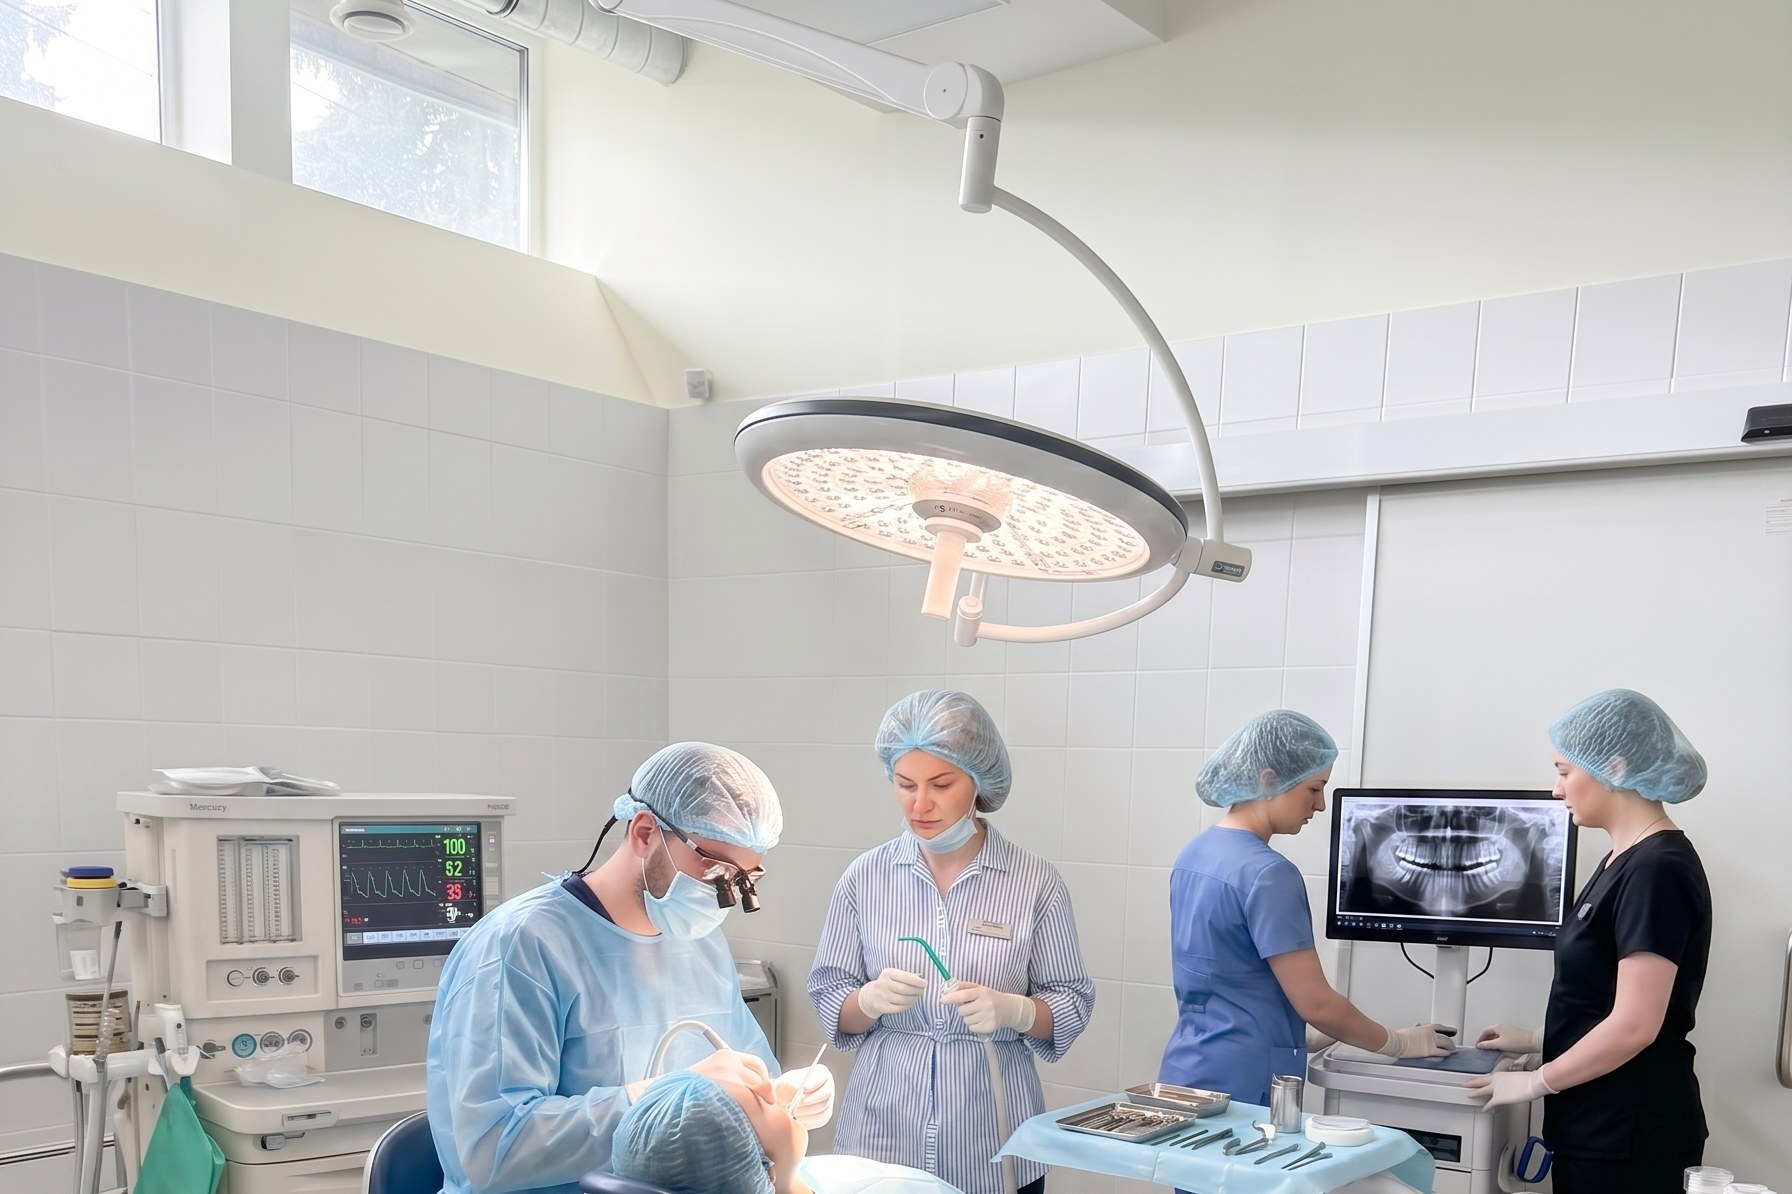
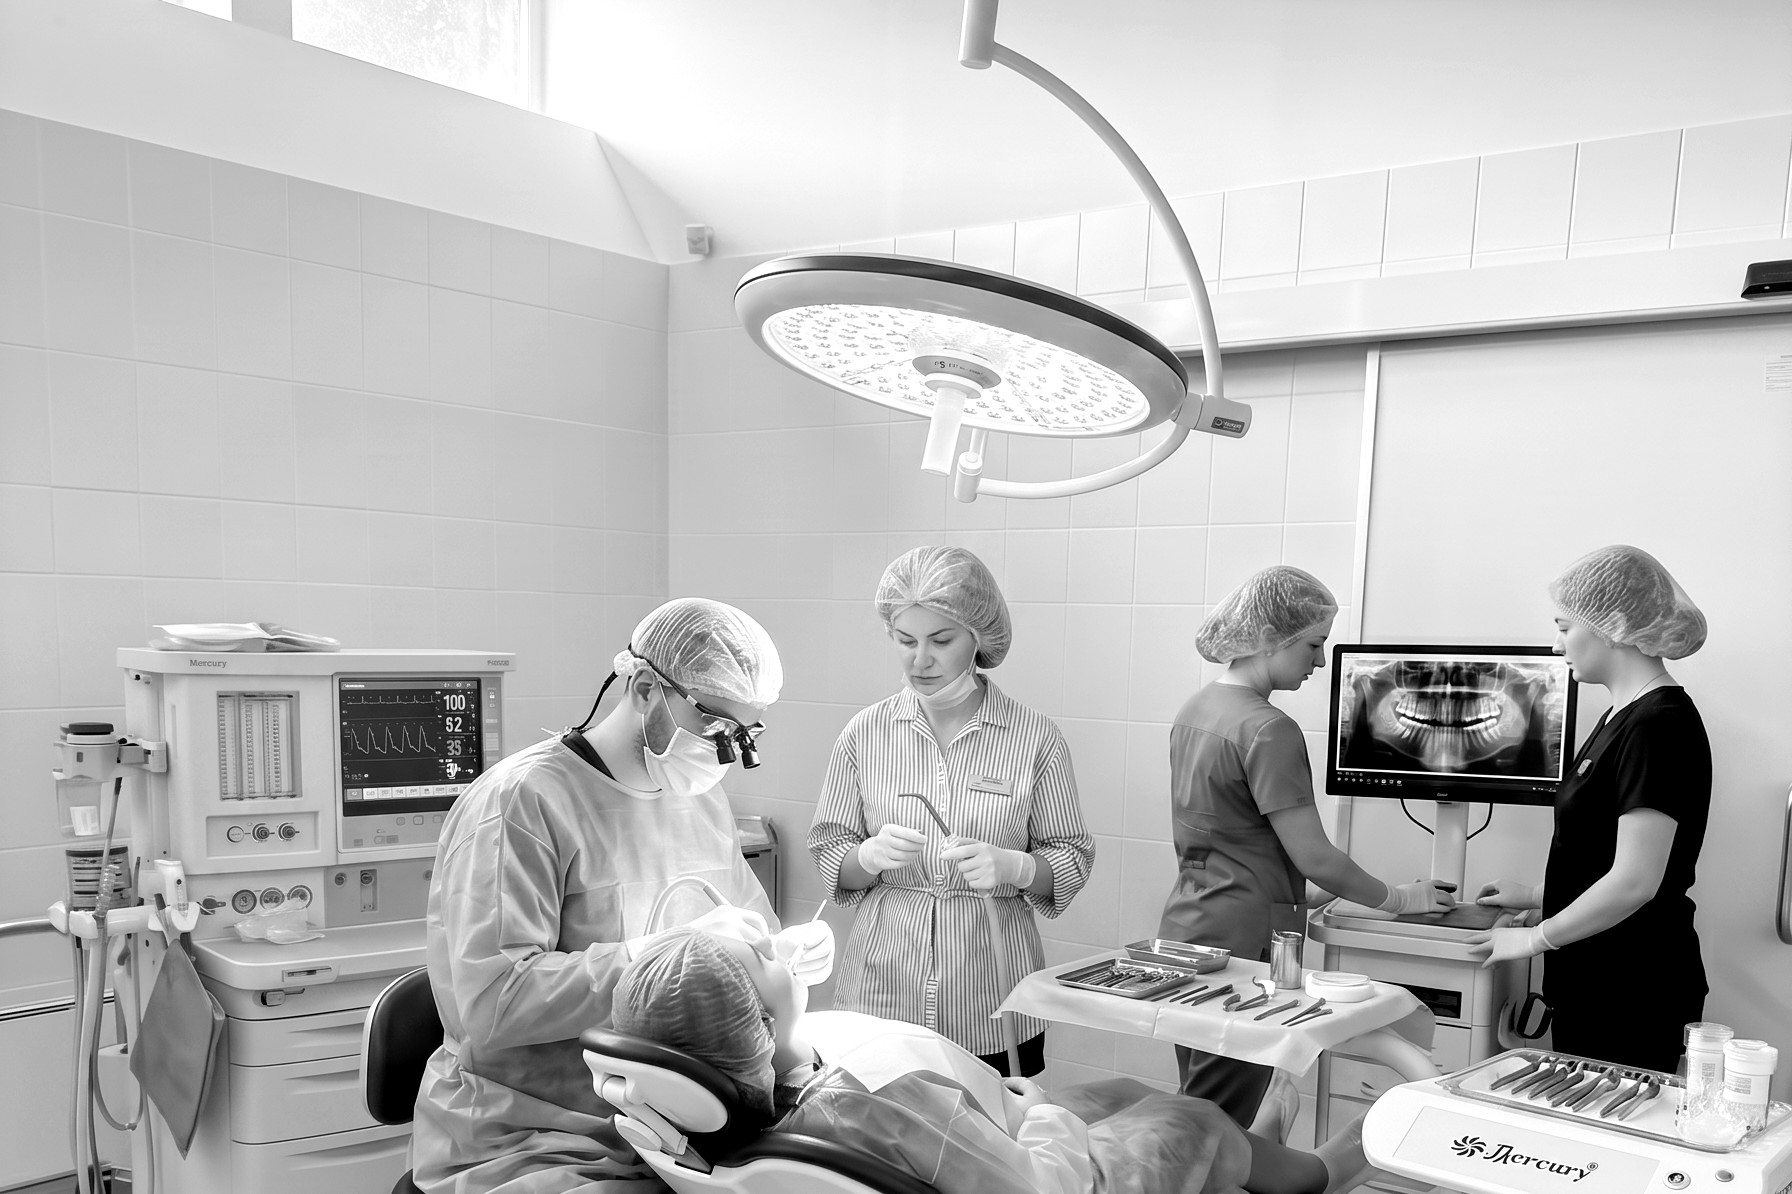
Услуги: фото операционной, выравнивание текста, объединение имплантация+протезирование

diff --git a/index.html b/index.html
@@ -361,13 +361,15 @@
 
   /* группы услуг (операционная / каждому) */
   .svc-group{margin-bottom:clamp(44px,6vw,88px)}
+  .svc-group .shead{align-items:flex-end}
+  .svc-group .shead .side{font-size:clamp(15.5px,1.5vw,18px);max-width:380px;line-height:1.55}
   .svc-group:last-of-type{margin-bottom:0}
-  .op-banner{position:relative;margin:0 0 clamp(6px,1vw,12px);border:1px solid var(--hairline-strong);overflow:hidden;background:var(--paper-2)}
-  .op-banner img{width:100%;display:block;aspect-ratio:16/7;object-fit:cover}
-  .op-banner figcaption{position:absolute;left:0;bottom:0;right:0;display:flex;justify-content:space-between;gap:14px;flex-wrap:wrap;
-    padding:clamp(14px,2vw,22px) clamp(16px,2vw,26px);font-family:var(--mono);font-size:11px;letter-spacing:.08em;text-transform:uppercase;
-    color:var(--paper);background:linear-gradient(to top,rgba(17,17,16,.82),rgba(17,17,16,0))}
-  .op-banner figcaption b{color:#D9A7AF;font-weight:500}
+  .op-banner{margin:0 0 clamp(8px,1.2vw,16px);border:1px solid var(--hairline-strong);background:var(--paper-2)}
+  .op-banner img{width:100%;display:block;aspect-ratio:3/2;object-fit:cover}
+  .op-banner figcaption{display:flex;justify-content:space-between;gap:14px;flex-wrap:wrap;
+    padding:13px clamp(16px,2vw,22px);border-top:1px solid var(--hairline);
+    font-family:var(--mono);font-size:11px;letter-spacing:.08em;text-transform:uppercase;color:var(--ink-50)}
+  .op-banner figcaption b{color:var(--accent);font-weight:500}
 
   /* directions (расширенные услуги) */
   .dirs{border-top:1px solid var(--hairline-strong)}
@@ -706,7 +708,7 @@
     /* группы услуг + баннер операционной на мобиле */
     .svc-group{margin-bottom:clamp(34px,9vw,52px)}
     .op-banner img{aspect-ratio:4/3}
-    .op-banner figcaption{flex-direction:column;gap:5px;font-size:10px;padding:14px 16px}
+    .op-banner figcaption{flex-direction:column;gap:4px;font-size:10px;padding:12px 16px}
   }
 </style>
 </head>
@@ -836,29 +838,29 @@
       <div class="dir-item rv">
         <button class="dir-head" type="button" aria-expanded="false" data-dir>
           <span class="dn">01</span>
-          <span class="dwrap"><span class="dt">Имплантация</span><span class="dh">Нет одного зуба или почти всех — вернём улыбку, на которую можно опереться</span></span>
+          <span class="dwrap"><span class="dt">Имплантация и протезирование</span><span class="dh">От одного импланта до полного восстановления — с коронкой или протезом под ключ</span></span>
           <span class="dp">от 45 000 ₽ за имплант</span>
           <span class="dpl"><svg viewBox="0 0 24 24" fill="none" stroke="currentColor" stroke-width="1.5"><path d="M12 5v14M5 12h14"/></svg></span>
         </button>
         <div class="dir-panel"><div><div class="dir-body">
           <div>
-            <p class="lede">Имплант заменяет утраченный корень и держит нагрузку как родной зуб: соседние зубы остаются нетронутыми, а кость не убывает. Подберём решение под вашу ситуацию — от одного импланта до полного восстановления челюсти, спокойно и без давления.</p>
+            <p class="lede">Имплант заменяет утраченный корень, а коронка или протез возвращают видимую часть зуба — так восстанавливаем и один зуб, и всю челюсть. Импланты Osstem и Neodent, коронки и виниры из циркония и керамики, мостовидные и съёмные протезы. Подберём решение под вашу ситуацию, спокойно и без давления.</p>
             <div class="dir-bens">
-            <div class="dir-ben"><span class="bm"></span><div><b>Сохраняем то, что можно сохранить</b><span>Сначала смотрим, какие зубы ещё спасти, и только потом планируем импланты. Не удаляем лишнего.</span></div></div>
-            <div class="dir-ben"><span class="bm"></span><div><b>Импланты с проверенной репутацией</b><span>Osstem и Neodent — системы с многолетней практикой и понятной гарантией. Для полного восстановления — All-on-4 и All-on-6.</span></div></div>
-            <div class="dir-ben"><span class="bm"></span><div><b>Цена зафиксирована в договоре</b><span>Сумма, озвученная после осмотра и КТ, не вырастет в процессе. Доступна рассрочка 0% и налоговый вычет 13%.</span></div></div>
+            <div class="dir-ben"><span class="bm"></span><div><b>Сохраняем то, что можно сохранить</b><span>Сначала смотрим, какие зубы ещё спасти, и только потом планируем импланты и протезы. Не удаляем лишнего.</span></div></div>
+            <div class="dir-ben"><span class="bm"></span><div><b>Имплант и коронка — под ключ</b><span>Osstem и Neodent с понятной гарантией, цирконий и керамика сверху. Для полного восстановления — All-on-4 и All-on-6.</span></div></div>
+            <div class="dir-ben"><span class="bm"></span><div><b>Цена зафиксирована в договоре</b><span>Сумма, озвученная после осмотра и КТ, не вырастет в процессе. Рассрочка 0% и налоговый вычет 13%.</span></div></div>
             </div>
           </div>
           <div class="dir-side">
-            <div class="pmeta">Имплант от 45 000 ₽, полное восстановление челюсти All-on-4 — от 170 000 ₽. Итоговая сумма зависит от объёма и становится известна после КТ; зафиксируем её в договоре. Рассрочка 0% и налоговый вычет 13%.</div>
+            <div class="pmeta">Имплант — от 45 000 ₽, коронка — от 35 500 ₽, полное восстановление челюсти All-on-4 — от 170 000 ₽. Итог зависит от объёма и фиксируется в договоре после КТ. Рассрочка 0%, вычет 13%.</div>
             <ol class="steps">
               <li>Консультация и 3D-снимок (КТ): оцениваем кость, составляем честный план и точную стоимость</li>
-              <li>При нехватке объёма кости — костная пластика, чтобы имплант встал надёжно</li>
-              <li>Установка имплантов — аккуратно, под надёжной анестезией, без боли</li>
-              <li>Установка постоянной коронки или протеза на импланты — выходите с готовой улыбкой</li>
+              <li>Установка имплантов под надёжной анестезией; при нехватке кости — костная пластика</li>
+              <li>Изготовление коронки или протеза по цифровым слепкам</li>
+              <li>Фиксация постоянной конструкции — выходите с готовой улыбкой</li>
             </ol>
             <div class="dir-cta">
-              <a class="btn btn-ink" href="#calc" data-service="Имплантация">Рассчитать стоимость</a>
+              <a class="btn btn-ink" href="#calc" data-service="Имплантация и протезирование">Рассчитать стоимость</a>
               <a class="btn btn-line" href="#contact">Записаться</a>
             </div>
           </div>
@@ -1065,37 +1067,6 @@
       <div class="dir-item rv">
         <button class="dir-head" type="button" aria-expanded="false" data-dir>
           <span class="dn">04</span>
-          <span class="dwrap"><span class="dt">Протезирование</span><span class="dh">Вернём крепкие зубы и красивую улыбку — спокойно, без боли и сюрпризов в цене</span></span>
-          <span class="dp">от 35 500 ₽</span>
-          <span class="dpl"><svg viewBox="0 0 24 24" fill="none" stroke="currentColor" stroke-width="1.5"><path d="M12 5v14M5 12h14"/></svg></span>
-        </button>
-        <div class="dir-panel"><div><div class="dir-body">
-          <div>
-            <p class="lede">Разрушенный или потерянный зуб не восстановится сам, но это решаемо. Наши ортопеды подбирают коронку или протез под вашу ситуацию, эстетику и бюджет — и сначала всё спокойно объясняют, а уже потом лечат.</p>
-            <div class="dir-bens">
-            <div class="dir-ben"><span class="bm"></span><div><b>Цена в договоре не меняется</b><span>Итоговую стоимость озвучиваем после осмотра и снимка — до начала работ. То, что зафиксировано в договоре, останется неизменным.</span></div></div>
-            <div class="dir-ben"><span class="bm"></span><div><b>Своя зуботехническая лаборатория</b><span>Коронки и протезы изготавливают точно по вам, с цифровым моделированием улыбки. Естественный вид и аккуратная посадка — как свои зубы.</span></div></div>
-            <div class="dir-ben"><span class="bm"></span><div><b>Гарантия и рассрочка 0%</b><span>На ортопедические конструкции даём гарантию по договору. Большой план можно разбить на комфортные платежи без переплат, доступен налоговый вычет 13%.</span></div></div>
-            </div>
-          </div>
-          <div class="dir-side">
-            <div class="pmeta">Цена за коронку из металлокерамики «Стандарт». Цирконий, цельная керамика, мостовидные, съёмные и бюгельные протезы, конструкции на имплантах — стоимость зависит от объёма и становится известна после осмотра. Доступна рассрочка 0% и налоговый вычет 13%.</div>
-            <ol class="steps">
-              <li>Осмотр и снимок: оценим состояние зубов и подберём тип коронки или протеза</li>
-              <li>План и стоимость: озвучим до начала работ — цена не изменится</li>
-              <li>Подготовка и слепки: лаборатория изготовит конструкцию точно по вам</li>
-              <li>Установка и контроль: зафиксируем, проверим прикус и дадим гарантию</li>
-            </ol>
-            <div class="dir-cta">
-              <a class="btn btn-ink" href="#calc" data-service="Протезирование">Рассчитать стоимость</a>
-              <a class="btn btn-line" href="#contact">Записаться</a>
-            </div>
-          </div>
-        </div></div></div>
-      </div>
-      <div class="dir-item rv">
-        <button class="dir-head" type="button" aria-expanded="false" data-dir>
-          <span class="dn">05</span>
           <span class="dwrap"><span class="dt">Виниры и эстетика</span><span class="dh">Ровные, белые, естественные зубы — и улыбка, которую не хочется прятать</span></span>
           <span class="dp">винир от 42 500 ₽</span>
           <span class="dpl"><svg viewBox="0 0 24 24" fill="none" stroke="currentColor" stroke-width="1.5"><path d="M12 5v14M5 12h14"/></svg></span>
@@ -1126,7 +1097,7 @@
       </div>
       <div class="dir-item rv">
         <button class="dir-head" type="button" aria-expanded="false" data-dir>
-          <span class="dn">06</span>
+          <span class="dn">05</span>
           <span class="dwrap"><span class="dt">Детям</span><span class="dh">Чтобы ребёнок шёл к врачу сам, а не со слезами</span></span>
           <span class="dp">от 900 ₽</span>
           <span class="dpl"><svg viewBox="0 0 24 24" fill="none" stroke="currentColor" stroke-width="1.5"><path d="M12 5v14M5 12h14"/></svg></span>
@@ -1157,7 +1128,7 @@
       </div>
       <div class="dir-item rv">
         <button class="dir-head" type="button" aria-expanded="false" data-dir>
-          <span class="dn">07</span>
+          <span class="dn">06</span>
           <span class="dwrap"><span class="dt">Острая боль</span><span class="dh">Не терпите до утра — снимем боль сегодня и разберёмся почему</span></span>
           <span class="dp">приём в день обращения</span>
           <span class="dpl"><svg viewBox="0 0 24 24" fill="none" stroke="currentColor" stroke-width="1.5"><path d="M12 5v14M5 12h14"/></svg></span>